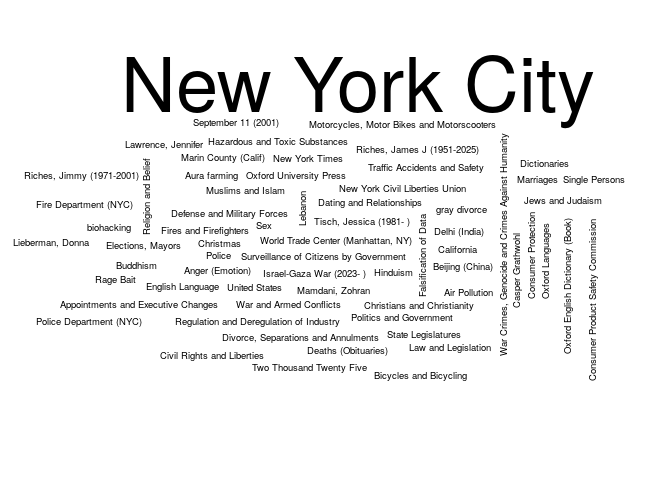
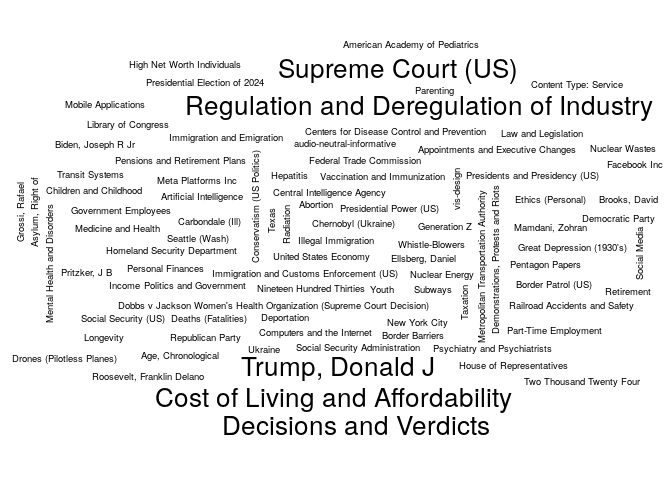
Updating the NYT report

Changed region(s): [[0.0, 0.0625, 1.0, 0.9062]]

diff --git a/03-nytimes/README.md b/03-nytimes/README.md
@@ -5,7 +5,7 @@ The following is an example of how to use the [NYTimes
 API](https://developer.nytimes.com/) to get a list of articles related
 to a particular term. Here we are searching articles that include the
 term `"health"`, and that were published up to seven days ago since
-2025-12-01.
+2025-12-08.
 
 ``` r
 # Preparing a function to use the GET method with the NYTimes API
@@ -83,25 +83,25 @@ colnames(tab) <- c("Keyword", "# Articles")
 knitr::kable(tab, row.names = FALSE)
 ```
 
-| Keyword                                     | \# Articles |
-|:--------------------------------------------|------------:|
-| Electric Bicycles, Motorcycles and Scooters |          10 |
-| New York City                               |          10 |
-| Air Pollution                               |           5 |
-| Anger (Emotion)                             |           5 |
-| Appointments and Executive Changes          |           5 |
-| Aura farming                                |           5 |
-| Beijing (China)                             |           5 |
-| Bicycles and Bicycling                      |           5 |
-| biohacking                                  |           5 |
-| Buddhism                                    |           5 |
-| California                                  |           5 |
-| Casper Grathwohl                            |           5 |
-| Christians and Christianity                 |           5 |
-| Christmas                                   |           5 |
-| Civil Rights and Liberties                  |           5 |
-| Consumer Product Safety Commission          |           5 |
-| Consumer Protection                         |           5 |
-| Dating and Relationships                    |           5 |
-| Deaths (Obituaries)                         |           5 |
-| Defense and Military Forces                 |           5 |
+| Keyword                                    | \# Articles |
+|:-------------------------------------------|------------:|
+| United States Politics and Government      |          25 |
+| Cost of Living and Affordability           |          10 |
+| Decisions and Verdicts                     |          10 |
+| Regulation and Deregulation of Industry    |          10 |
+| Supreme Court (US)                         |          10 |
+| Trump, Donald J                            |          10 |
+| Abortion                                   |           5 |
+| Age, Chronological                         |           5 |
+| American Academy of Pediatrics             |           5 |
+| Appointments and Executive Changes         |           5 |
+| Artificial Intelligence                    |           5 |
+| Asylum, Right of                           |           5 |
+| audio-neutral-informative                  |           5 |
+| Biden, Joseph R Jr                         |           5 |
+| Border Barriers                            |           5 |
+| Border Patrol (US)                         |           5 |
+| Brooks, David                              |           5 |
+| Carbondale (Ill)                           |           5 |
+| Centers for Disease Control and Prevention |           5 |
+| Central Intelligence Agency                |           5 |
